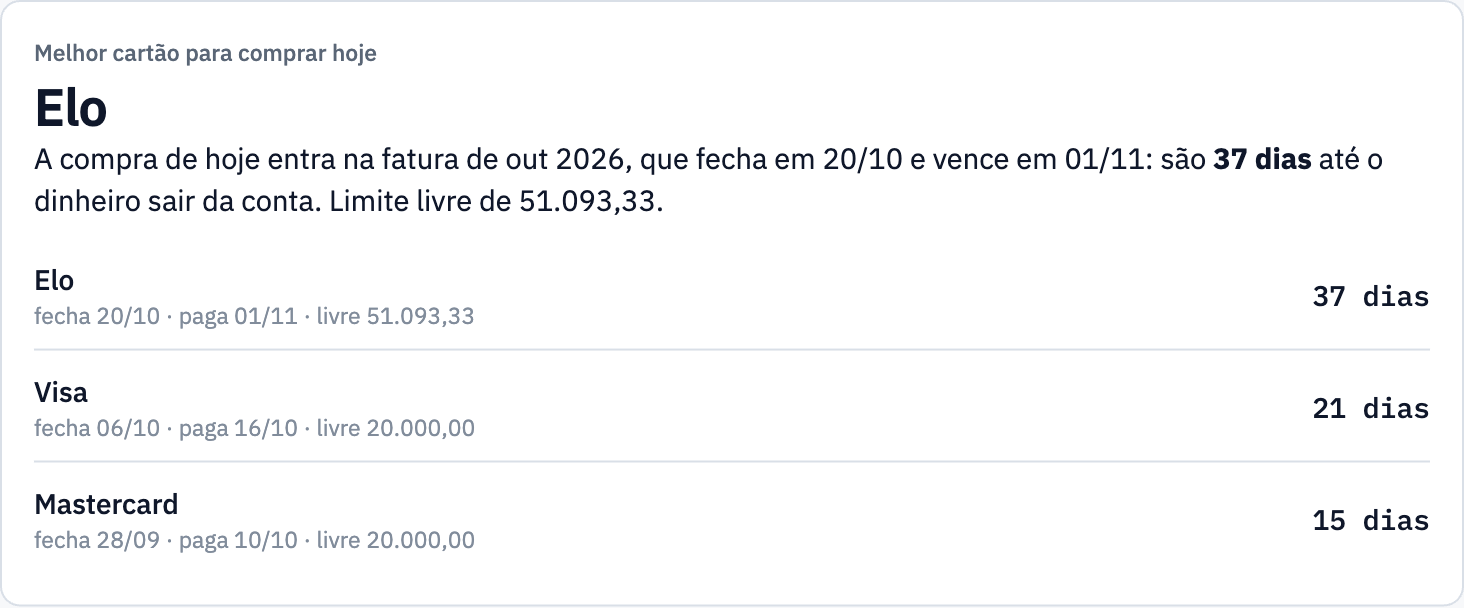
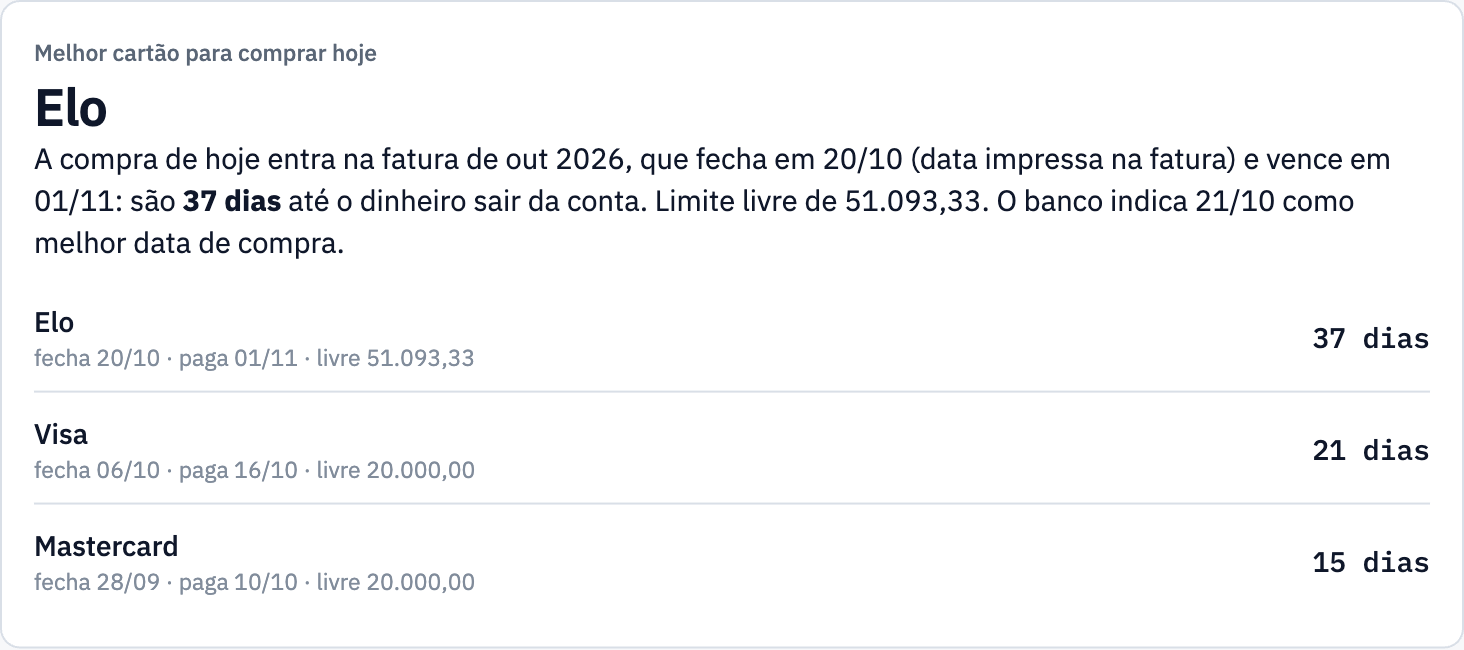
Ajuda com 55 perguntas e telas do manual refeitas
- FAQ ganha o dia a dia que faltava: corrigir lançamento, gasto fixo,
  transferência entre contas, dois aparelhos, sem internet, família,
  Análises, Futuro, 50-30-20, teto e parcelas com centavos diferentes.
- Telas do manual refeitas com o que existe agora: melhor cartão com a
  data impressa na fatura e a melhor data de compra, e as duas telas da
  Ajuda com a lista completa.

diff --git a/index.html b/index.html
@@ -2313,6 +2313,31 @@ const AJUDA=[
   c:"É o valor que o app calculou com as compras e parcelas que conhece, enquanto a fatura do banco não foi importada. Ela nunca aparece como atrasada.",a:"cartoes"},
 
  /* dinheiro */
+ {g:"Cartões",t:"As parcelas vieram com centavos diferentes",
+  c:"É o banco arredondando: a parcela 01/06 sai 232,00 e a 02/06, 231,98. O app reconhece a parcela que já tinha reservado e acerta pelo valor da fatura. Se uma parcela prevista não veio, ele empurra para a fatura seguinte.",a:"fatura"},
+
+ {g:"No dia a dia",t:"Como corrijo ou apago um lançamento?",
+  c:"Toque nele em qualquer lista — no Mês, no extrato, no Painel. Dá para mudar valor, descrição, categoria, forma de pagamento e data, tornar fixo ou excluir. Numa compra parcelada, excluir tira a compra inteira.",a:"mes"},
+ {g:"No dia a dia",t:"Como marco um gasto que se repete todo mês?",
+  c:"Na conferência, marque Fixo todo mês; num lançamento já salvo, toque nele e use Tornar fixo. Os fixos aparecem em Contas a pagar e entram no comprometido do mês. A lista fica em Ajustes → Gastos fixos do mês.",a:"mes"},
+ {g:"No dia a dia",t:"Como registro dinheiro que passei de uma conta para outra?",
+  c:"Aba Lançar → Transferir entre contas. Não conta como gasto: só muda o dinheiro de lugar. Para mandar dinheiro a outra pessoa, lance como gasto com a forma Transferência ou Pix.",a:"contas"},
+ {g:"No dia a dia",t:"Uso em dois aparelhos. Sincroniza?",
+  c:"Sim, pela sua conta Google: o que você lança num aparelho aparece no outro quando os dois abrem com internet. O acesso ao Drive dura cerca de uma hora; depois aparece Sincronizar no alto — um toque e pronto.",a:"dados"},
+ {g:"No dia a dia",t:"Funciona sem internet?",
+  c:"Funciona. Tudo é salvo no aparelho e sobe para o Drive quando a conexão volta. A leitura de PDF e foto também acontece no próprio aparelho.",a:"dados"},
+ {g:"No dia a dia",t:"Minha família pode usar o mesmo app?",
+  c:"Pode: é um app só, e cada pessoa entra com a própria conta Google. Os dados de cada um ficam no Drive dela — ninguém vê os dados do outro.",a:"comecar"},
+
+ {g:"Entender os números",t:"O que a aba Análises mostra?",
+  c:"O diagnóstico do mês (ritmo contra o teto, 50-30-20, renda comprometida, cartões perto do limite, gastos que parecem fixos), as compras parceladas, os gastos por cartão e o acompanhamento das dívidas.",a:"analises"},
+ {g:"Entender os números",t:"Para que serve a aba Futuro?",
+  c:"Mostra quanto dos próximos meses já está comprometido — parcelas, gastos fixos e dívidas — antes de você gastar mais nada.",a:"futuro"},
+ {g:"Entender os números",t:"O que é o método 50-30-20?",
+  c:"Na aba Meta: divide a renda em Necessidades (50%), Desejos (30%) e Futuro (20%). A rosca mostra a meta e para onde a renda foi. Necessidades e Desejos são tetos; Futuro é piso. Os percentuais e o grupo de cada categoria são ajustáveis.",a:"futuro"},
+ {g:"Entender os números",t:"O que é o teto de gastos?",
+  c:"É quanto você decidiu gastar no mês, informado em Ajustes → Meta do mês. O Painel mostra o disponível até o fim do mês descontando o que já foi gasto e o que está comprometido.",a:"painel"},
+
  {g:"Dinheiro",t:"Saque é gasto?",
   c:"Não. O saque tira da conta corrente e põe na Carteira. O gasto conta quando o dinheiro sai da carteira.",a:"carteira"},
  {g:"Dinheiro",t:"Não lanço os gastos em dinheiro. Como zero a carteira?",

diff --git a/manual.html b/manual.html
@@ -97,7 +97,7 @@ td.valor{font-family:var(--f-m);text-align:right;white-space:nowrap}
   <div class="sub">Manual de uso — controle de gastos por fala, extrato e fatura</div>
   <div class="meta">
     Endereço do app: https://rgbittencourt.github.io/caderneta/<br>
-    Setembro de 2026 · aplica-se à versão caderneta-v35 em diante
+    Setembro de 2026 · aplica-se à versão caderneta-v39 em diante
   </div>
 </header>
 

diff --git a/sw.js b/sw.js
@@ -1,6 +1,6 @@
 /* Caderneta — service worker: guarda o app no aparelho para abrir sem internet.
    Mude VERSAO a cada publicação para os aparelhos pegarem a versão nova. */
-const VERSAO = "caderneta-v38";
+const VERSAO = "caderneta-v39";
 const FONTES = "caderneta-fontes";
 const LIBS = "caderneta-libs-2";
 const APP = ["./", "./index.html", "./manifest.webmanifest", "./config.js",

diff --git a/CLAUDE.md b/CLAUDE.md
@@ -48,6 +48,7 @@ Leia este arquivo inteiro antes de mudar qualquer coisa. Ao mudar arquitetura, f
 
 Outros arquivos:
 - `manual.html` + pasta `manual/` — **manual de uso** (pedido do dono em 25/09/2026): completo, com telas, sumário e **formatado para imprimir em A4** (`@page size:A4`, cada seção começa em página nova). As telas são capturas do app com **dados inventados** — nada do dono entra no repositório, que é público. Foram feitas com html2canvas rodando no app local; para refazer, monte um perfil de demonstração e capture de novo. Abre em Ajustes → *Ajuda e manual* e não entra no cache offline como se fosse a página do app (`sw.js` só guarda `./index.html` sob essa chave quando a navegação é para o app).
+- A Ajuda cobre **tudo o que o dono perguntou nesta conversa** e mais o dia a dia (corrigir lançamento, gasto fixo, transferência, dois aparelhos, sem internet, família, Análises, Futuro, 50-30-20, teto). Ao mudar algo, a pergunta correspondente entra ou é ajustada junto — é a regra dele.
 - **Ajuda é uma aba** (a última, depois de Ajustes; no celular, dentro de *Mais*) — `AJUDA` + `renderAjuda`: as dúvidas que o dono levantou viraram FAQ, agrupado por tema, com busca que filtra enquanto se escreve e um atalho para a seção do manual. *Perguntar ao Claude* copia a pergunta e abre a conversa — o app **não tem IA embutida**: não há servidor nem chave, e não se pede chave ao dono.
 - `leitor.js` — leitor de documentos, 100% no aparelho. PDF com texto: pdf.js 3.11.174 (cdnjs). Foto ou PDF escaneado: Tesseract.js 5.1.1 (jsdelivr), idioma `por`. Boleto: `BarcodeDetector` (formato ITF) quando existe, senão a linha digitável reconhecida no texto; aceita só código que passa nos dígitos verificadores (módulo 10/11; fator de vencimento com o ciclo que recomeçou em 22/02/2025). Expõe `window.Leitor` (`ler`, `lerLancamentos`, `lerCupom`, `lerBoleto`, `adivinharTipo`). As bibliotecas baixam na primeira vez e ficam no cache `caderneta-libs`.
   - Fatura: parcela `03/10` vira `i0=3, n=10`; `commit` cria da 3ª à 10ª a partir do mês da fatura (`d.ym`). Pagamento da fatura e estornos ficam de fora.
@@ -206,7 +207,7 @@ Primeira publicação num computador novo: o dono autoriza no navegador (Git Cre
 
 ## Situação e próximos passos
 
-- **Publicado:** `caderneta-v38` (25/09/2026). O que existe está descrito acima; os commits contam a ordem.
+- **Publicado:** `caderneta-v39` (25/09/2026). O que existe está descrito acima; os commits contam a ordem.
 - **O que o dono está fazendo:** carregando os extratos da conta corrente e as faturas dos cartões (Visa, Mastercard, Elo) de janeiro a setembro de 2026, todos em PDF, no MacBook Air, depois de usar *Recomeçar do zero*. O passo a passo está no README, em *Importar meses anteriores*.
 - **Documentos reais (15/09/2026):** o dono mandou, por iniciativa própria, o extrato da conta corrente do BB de jan/2026 e uma fatura Ourocard Mastercard. Até a v14 o extrato vinha com descrições erradas (lote e documento no lugar do nome) e o Rende Fácil contado como gasto e entrada; a fatura lia taxas de juros como compras. Os formatos estão descritos acima e foram conferidos com os dois PDFs, que **não** estão no repositório. A fatura recebida só tinha anuidade e desconto; compras parceladas no formato do BB foram testadas com linhas simuladas. Se outro documento falhar, peça a *amostra sem dados*.
 - **Consignados:** ele tem dois — um pagando a 4ª de 12 em setembro de 2026, outro com a 1ª parcela em 01/10/2026. Depois do Recomeçar, precisam ser cadastrados de novo, com a data real do empréstimo e 0 já descontadas, antes de importar janeiro.
